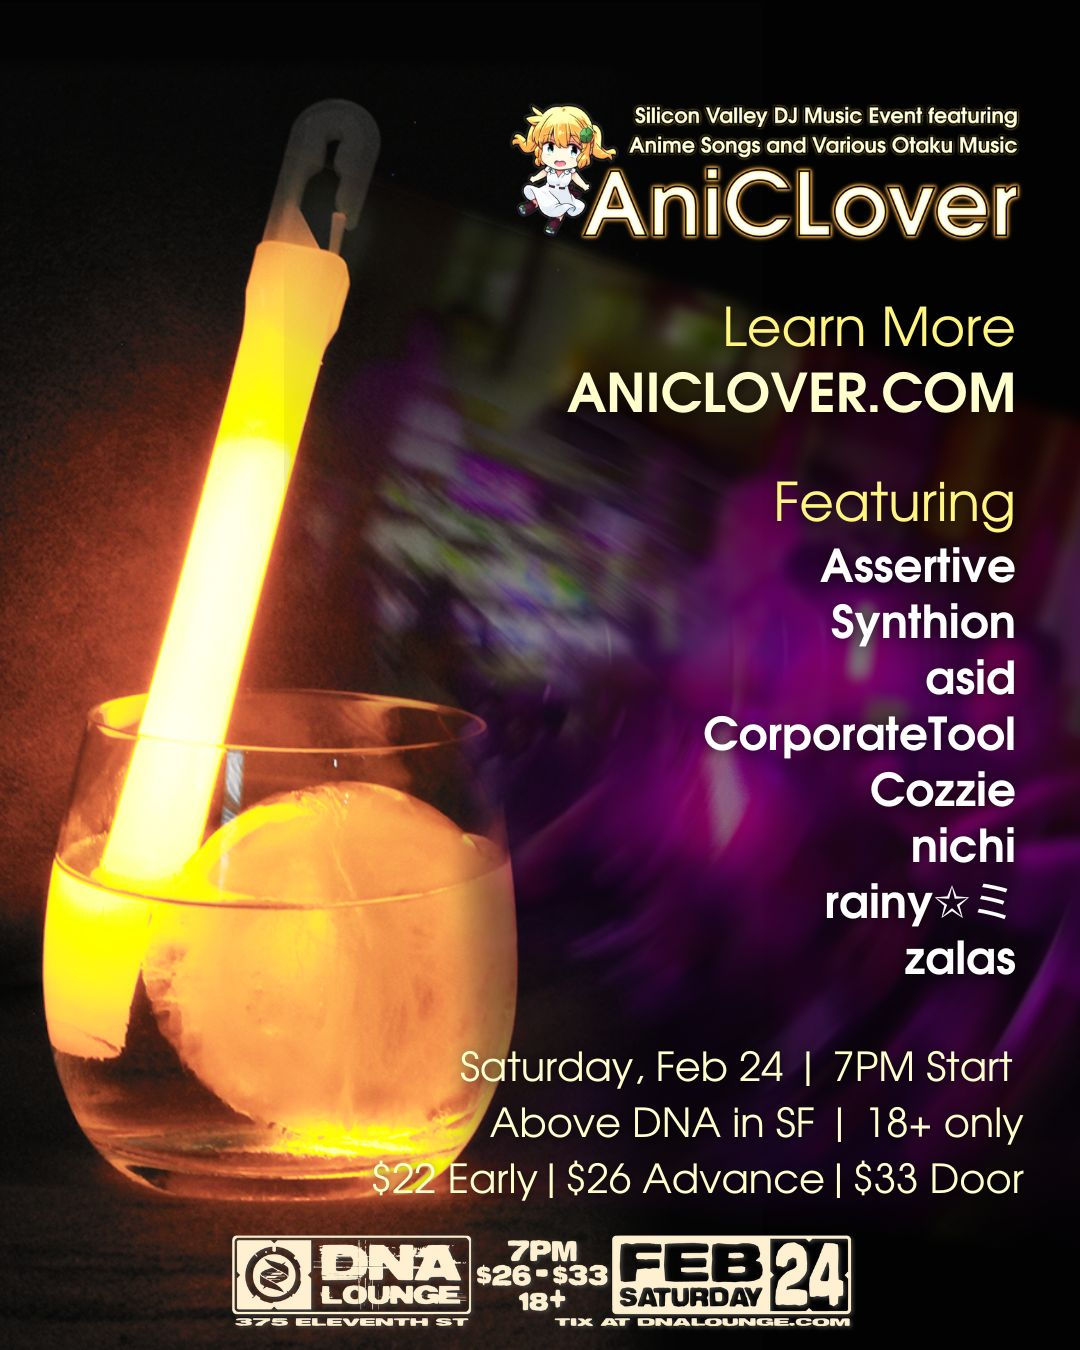
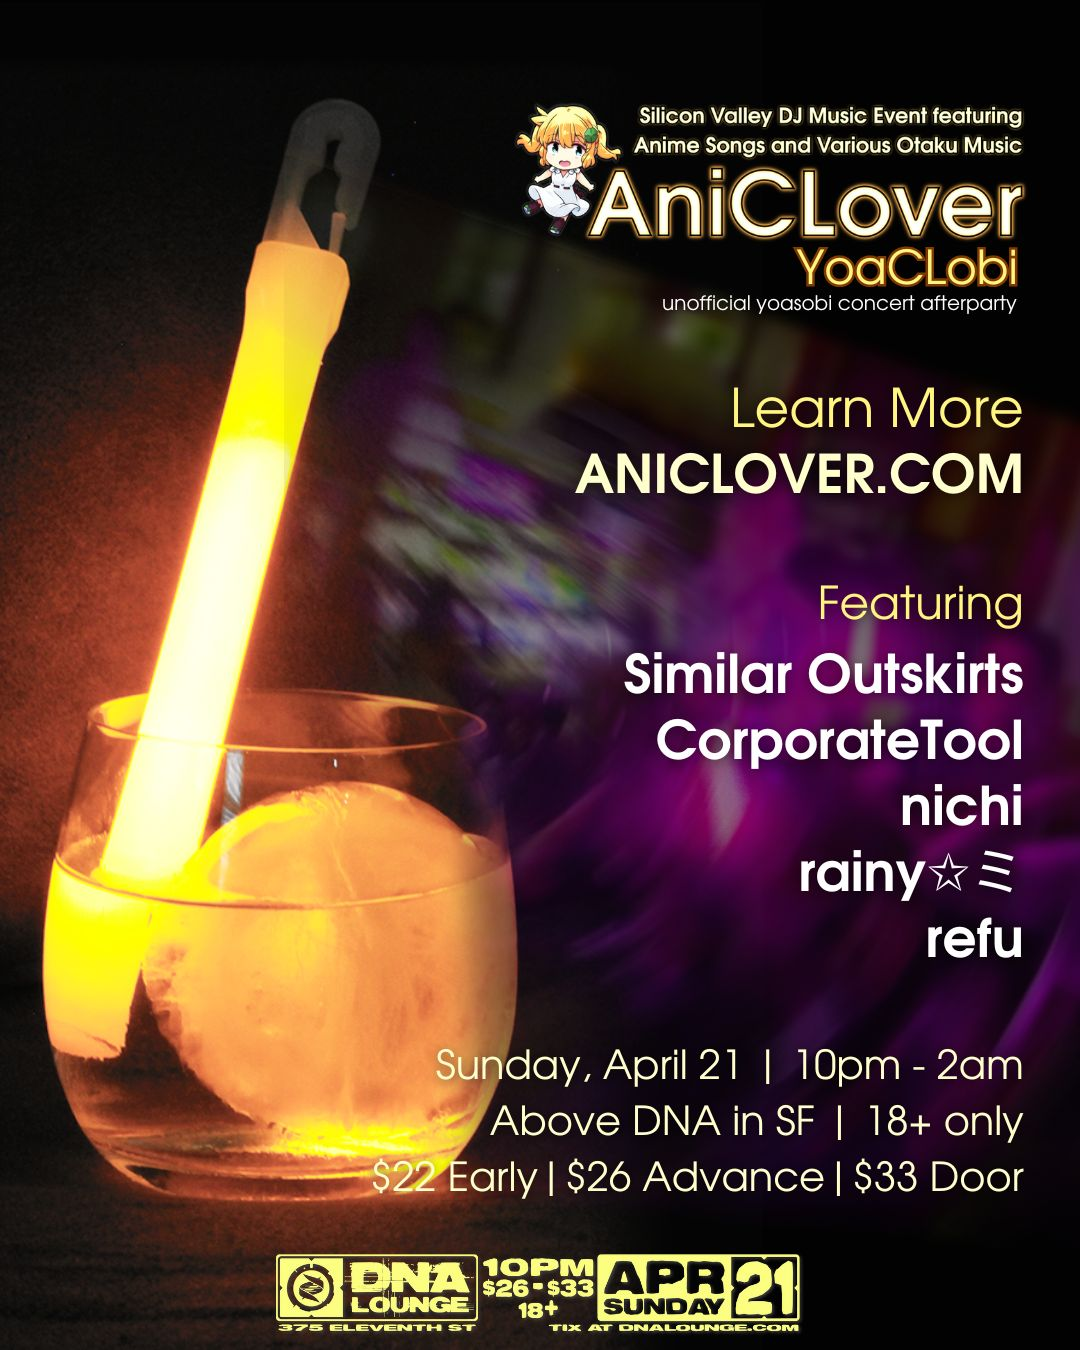
Update YoaCLobi

Changed region(s): [[0.4583, 0.0622, 0.9472, 0.7467], [0.2139, 0.7778, 0.9472, 0.9956]]

diff --git a/dna-ticket-info.html b/dna-ticket-info.html
@@ -216,8 +216,9 @@
           document.getElementById("discount-code").textContent = data.code.trim()
         })
 
-        document.getElementById("email-form").style.display = 'none';
-        document.getElementById("discount-code-area").style.display = 'block';
+        // document.getElementById("email-form").style.display = 'none';
+        // document.getElementById("discount-code-area").style.display = 'block';
+        ticketSubmit();
       }
 
       function addCallback(url) {
@@ -246,7 +247,8 @@
               <div class="modal-body">
                 <form class="email-form" id="email-form">
                   <p>Please enter your name and email address so we can provide DJ updates and other show-related notifications.</p>
-                  <p><strong>Buy tickets now and get an instant discount code to use on your ticket purchase!</strong></p>
+                  <!-- <p><strong>Buy tickets now and get an instant discount code to use on your ticket purchase!</strong></p> -->
+                  <p><strong>Buy tickets now while discounted early advance pricing is still available!</strong></p>
                   <div class="row">
                     <div class="col">
                       <label for="fname" class="form-label">First Name</label>
@@ -300,25 +302,25 @@
       <div class="tickets row">
           <p>
             <div class="horiz-center">
-              <h1>AniCLover @ DNA Lounge</h1>
-              Saturday, February 24 | 7:00PM Start
+              <h1>AniCLover: YoaCLobi @ DNA Lounge</h1>
+              Sunday, April 21 | 10:00PM Start
             </div>
           </p>
 
           <div class="col-xs-12 col-lg-3 sticky-top bg-dark bg-opacity-75">
             <div class="sticky-top">
               <dl class="row">
-                <dt class="col-4"><del>Early</del></dt>
-                <dd class="col-8"><del>$22 (SOLD OUT)</del></dd>
+                <dt class="col-4">Early</dt>
+                <dd class="col-8">$22 (limited qty)</dd>
 
                 <dt class="col-4">Advance</dt>
-                <dd class="col-8">$26 (buy now for discount code)</dd>
+                <dd class="col-8">$26</dd>
 
                 <dt class="col-4">Door</dt>
                 <dd class="col-8">$33</dd>
               </dl>
               <form id="ticket-form" name="buy" action="https://www.dnalounge.com/order/" method="POST">
-                <input type="HIDDEN" name="item" value="66135">
+                <input type="HIDDEN" name="item" value="66301">
               </form>
 
               <button class="btn btn-danger btn-lg btn-block w-100" type="button" data-bs-toggle="modal" data-bs-target="#MLModal">
@@ -336,32 +338,29 @@
           <div class="col-xs-12 col-lg-9">
               <p>
                   <a href="https://aniclover.com/direct">
-                      <img class="img-fluid" src="./assets/Vocaclover Announcement 45.png" alt="AniCLover @ DNA Lounge Feb 24">
+                      <img class="img-fluid" src="./assets/DNA Announcement 45.jpg" alt="AniCLover @ DNA Lounge Feb 24">
                   </a>
               </p>
               <p>
-                  AniCLover is back from Japan with an all-star lineup of DJs spinning the best in
-                  anime songs, remixes, and otaku music! Don't miss the excitement as we bring the Tokyo
-                  anikura experience right here to the Bay Area!
+                  Are you going to see YOASOBI in San Francisco? Or maybe you couldn't get tickets?
+                  Either way, join us at the DNA Lounge for an afterparty where we'll celebrate everything YOASOBI, plus J-Pop,
+                  Utaite, Vocaloid, and anisong remixes in honor of Ayase and Ikura's past and current projects!
               </p>
               <p>Cosplay is welcome!</p>
               <p>
                 Featuring DJs:
                 <ul>
-                  <li>Assertive</li>
-                  <li>Synthion</li>
-                  <li>asid</li>
+                  <li>Similar Outskirts</li>
                   <li>CorporateTool</li>
-                  <li>Cozzie</li>
                   <li>nichi</li>
                   <li>rainy☆ミ</li>
-                  <li>zalas</li>
+                  <li>refu</li>
                 </ul>
               </p>
               <p>
                   Above DNA in San Francisco<br>
-                  Saturday, February 24, 2024<br>
-                  7PM - Midnight<br>
+                  Sunday, April 21, 2024<br>
+                  10pm - 2am<br>
                   18+ only
               </p>
           </div>

diff --git a/index.html b/index.html
@@ -275,6 +275,10 @@
                             <h4>VocaCLover @ Fuze</h4>
                             Monday & Tuesday, April 8 & 9 | 10PM<br>
                         </a>
+                        <a href="https://aniclover.com/dna-ticket-info?utm_campaign=main&utm_source=website" class="btn btn-danger">
+                            <h4>AniCLover: YoaCLobi @ DNA Lounge</h4>
+                            Sunday, April 21 | 10PM<br>
+                        </a>
 
                     </div>
                 </div>
